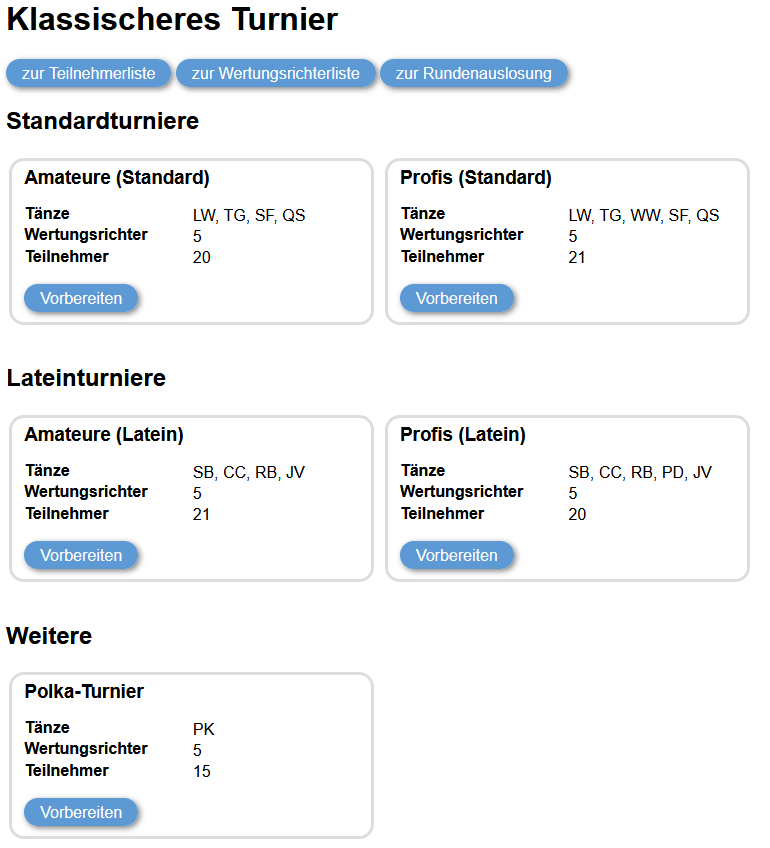
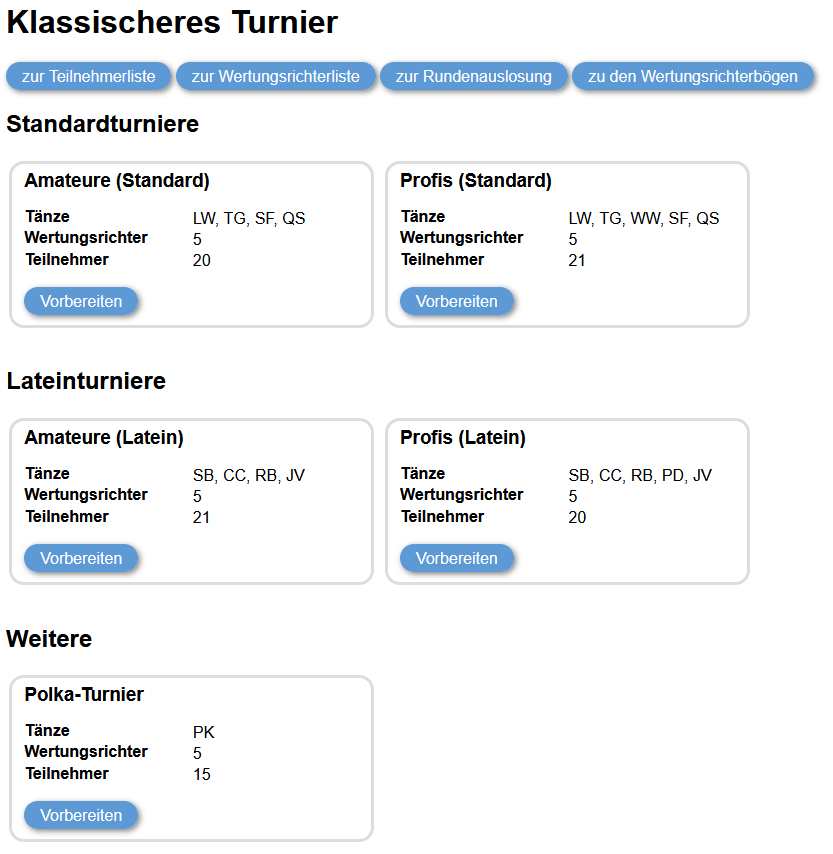
added possibility to print scoresheets batch-wise

diff --git a/main/pydanceweb/templates/pydanceweb/scoresheets_for_adjudicator.html b/main/pydanceweb/templates/pydanceweb/scoresheets_for_adjudicator.html
@@ -1,0 +1,57 @@
+{% extends 'pydanceweb/base.html' %}
+
+{% block content %}
+{% for dance_round in current_rounds %}
+{% if not forloop.first %}
+<h1 class="page-break-before">{{ conf.name }}</h1>
+{% endif %}
+{% for adjudicator in adjudicators_per_section|get_item:dance_round.section_id %}
+{% if not forloop.first %}
+<h1 class="page-break-before">{{ conf.name }}</h1>
+{% endif %}
+<h2>{{ dance_round.name }} ({{ dance_round.section_id }})</h2>
+<h3>Wertungsrichter {{ adjudicator }}</h3>
+<h4>{{ dance_round.competitors|length }} Teilnehmer</h4>
+{% for dance in dance_round.dances %}
+<div>
+  <div>
+    {% if dance_round.is_final %}
+    <p>Bitte nur die Plätze 1-{{ dance_round.competitors|length }} vergeben und keine Platzierung doppelt.</p>
+    <fieldset class="final">
+      <h3>{{ dance.id }}</h3>
+      <div class="row">
+        <div class="six columns">
+          <h4>Paar</h4>
+          {% for competitor in dance_round.competitors %}
+          <label for="{{ competitor }}">{{ competitor }}</label>
+          {% endfor %}
+        </div>
+        <div class="six columns placement-wrapper">
+          <h4>Platz</h4>
+          {% for competitor in dance_round.competitors %}
+          <input type="number" name="competitors" id="{{ competitor }}" value=""/>
+          {% endfor %}
+        </div>
+      </div>
+    </fieldset>
+    {% else %}
+    <p>Bitte insgesamt <b>{{ dance_round.callback_wish }} Kreuze</b> vergeben</p>
+    {% for heat in heat_dict|get_item:dance_round.section_id|get_item:dance_round.id|get_item:dance.id %}
+    <fieldset class="heat">
+        <h3>{{ dance.id }} - Heat {{ heat.no }}/{{ heat_dict|get_item:dance_round.section_id|get_item:dance_round.id|get_item:dance.id|length }}</h3>
+        <div class="callback_mark_wrapper">
+            <h4>Paar</h4>
+            {% for competitor in heat.competitors %}
+            <input type="checkbox" class="callback_mark" name="competitors" id="{{ competitor }}" value="{{ competitor }}"/>
+            <label for="{{ competitor }}">{{ competitor }}</label>
+            {% endfor %}
+        </div>
+      </fieldset>
+      {% endfor %}
+      {% endif %}
+  </div>
+</div>
+{% endfor %}
+{% endfor %}
+{% endfor %}
+{% endblock %}

diff --git a/main/pydanceweb/templates/pydanceweb/index_for_tournament_desk.html b/main/pydanceweb/templates/pydanceweb/index_for_tournament_desk.html
@@ -4,6 +4,7 @@
 <a href="{% url 'show_competitor_overview' %}" class="button">zur Teilnehmerliste</a>
 <a href="{% url 'show_adjudicator_overview' %}" class="button">zur Wertungsrichterliste</a>
 <a href="{% url 'show_index' %}" class="button">zur Rundenauslosung</a>
+<a href="{% url 'show_current_adjudicator_sheets' %}" class="button">zu den Wertungsrichterbögen</a>
 
 {% for section_group in conf.section_groups %}
 <div class="dance_section_group page-break-after">

diff --git a/main/pydanceweb/views.py b/main/pydanceweb/views.py
@@ -314,6 +314,30 @@ def show_current_adjudicator_rounds(request, adjudicator_id):
     }
     return render(request, 'pydanceweb/index_for_adjudicator.html', context)
 
+def show_current_adjudicator_sheets(request):
+    current_rounds = []
+    adjudicators_per_section = { section.id: section.adjudicators for section in Sections.get_running() }
+    heat_dict = {}
+    for dance_round in DanceRounds.get_running():
+        section_id = dance_round.section_id
+        current_rounds.append(dance_round)
+
+        current_heat_dict = {}
+        for dance in dance_round.dances:
+            if dance_round.is_final:
+                continue
+            current_heat_dict[str(dance.id)] = Heats.from_table(HeatTables.get(section_id, dance_round.id), dance.id)
+        heat_dict[str(section_id)] = { 
+            str(dance_round.id): current_heat_dict
+        }
+    context = {
+        'conf': Conf.get(),
+        'current_rounds': current_rounds,
+        'adjudicators_per_section': adjudicators_per_section,
+        'heat_dict': heat_dict,
+    }
+    return render(request, 'pydanceweb/scoresheets_for_adjudicator.html', context)
+
 def _judge_next(request, adjudicator_id, dance_round, dance_id, callback_marks=[], final_marks={}):
     # goto next dance or index
     next_dance = None

diff --git a/main/pydanceweb/urls.py b/main/pydanceweb/urls.py
@@ -24,6 +24,7 @@ urlpatterns = [
     path('desk/results/', views.finalize, name='finalize'),
     path('desk/awards/<award_id>', views.handle_award, name='handle_award'),
     path('desk/awards/<award_id>/', views.handle_award, name='handle_award'),
+    path('desk/sheets', views.show_current_adjudicator_sheets, name='show_current_adjudicator_sheets'),
 
     # adjudicator overview => current rounds
     path('judge_<adjudicator_id>', views.show_current_adjudicator_rounds, name='show_current_adjudicator_rounds'),

diff --git a/README.md b/README.md
@@ -282,6 +282,12 @@ If you click one of the buttons at the left side of the page you will get to a h
 
 (Please note that final rounds will not be accessible from this view!)
 
+### Current Adjudicator Sheets
+
+All sheets for rounds that are currently running will also be listed on the page http://`YOUR_IP_ADDRESS`/ftm/desk/scheets from where you can print them batch-wise. However, it is not possible to judge rounds with these versions. Please use the Adjudicator Views instead.
+
+(Please note that final rounds are accessible from this view!)
+
 ### Results
 
 If there are any finished sections you will also find links to the detailed results view below the current round overview:
@@ -298,7 +304,6 @@ However, this view will lack a reset option:
 While the app is fully functional (especially for single dance sections), there are still some additions that may be implemented in the future:
 
 - make it possible to upload competitor/adjudicator participations in the tournament desk view
-- make it possible to print all adjudicator sheets for a given round at once
 - make it possible to redraw the heats from the tournament desk heat view
 - make it possible to add competitors to running sections
 - make it possible to also use rule 10 for additional awards
